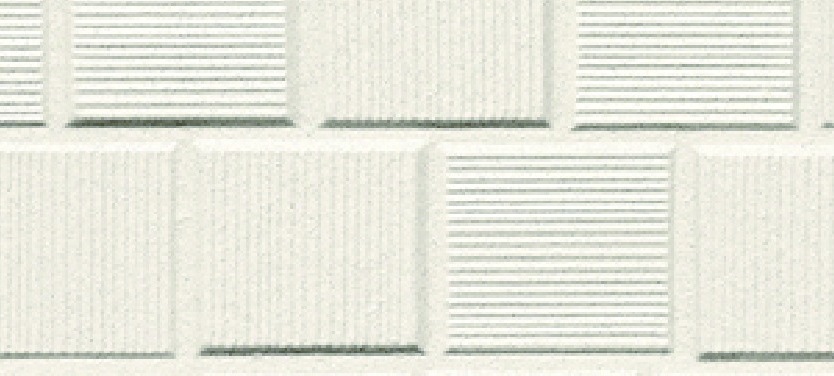
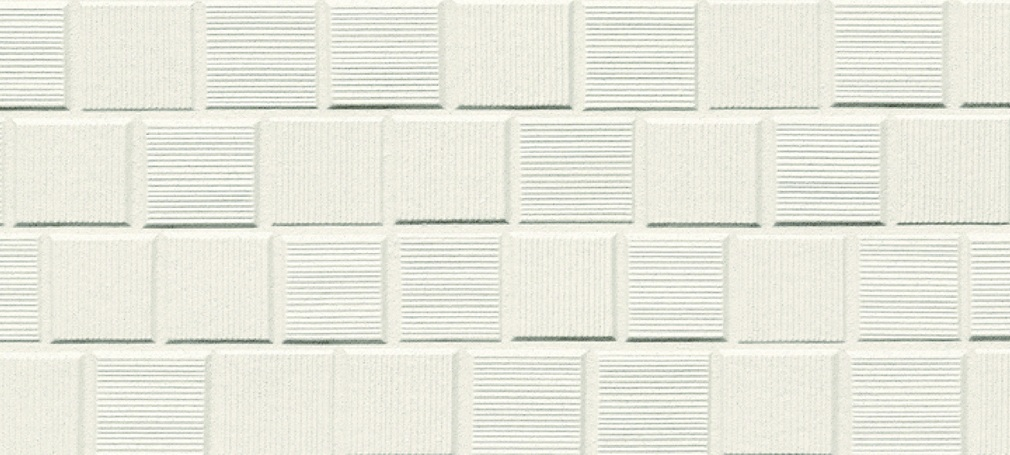
Correct mosaic texture crop and physical scale

Changed region(s): [[0.0, 0.0, 1.0, 1.0], [0.3741, 0.3803, 0.4053, 0.4096], [0.0, 0.3803, 0.0312, 0.4096]]

diff --git a/index.html b/index.html
@@ -94,11 +94,11 @@ function makeMaterial(product){
   if(materialCache.has(product.id))return materialCache.get(product.id);
   const texture=textureLoader.load(product.url,undefined,undefined,error=>console.error('花色图片加载失败:',product.url,error));
   texture.colorSpace=THREE.SRGBColorSpace;texture.wrapS=THREE.RepeatWrapping;texture.wrapT=THREE.RepeatWrapping;
-  // Material-only detail scale: double texture frequency so each visible
-  // pattern feature is half-size. Board geometry and joint spacing stay
-  // 3030 mm horizontally and 455 mm vertically.
-  const TEXTURE_DETAIL_SCALE=2;
-  texture.repeat.set(TEXTURE_DETAIL_SCALE/SOURCE_TILE_LENGTH_M,TEXTURE_DETAIL_SCALE/BOARD_COURSE_M);texture.anisotropy=Math.min(8,renderer.capabilities.getMaxAnisotropy());
+  // The mosaic sources are now cropped directly from the original product
+  // photos to show four block rows per 455 mm course. Keep their physical
+  // 1010 × 455 mm scale; other patterns retain the requested half-size detail.
+  const textureDetailScale=product.family==='马赛克'?1:2;
+  texture.repeat.set(textureDetailScale/SOURCE_TILE_LENGTH_M,textureDetailScale/BOARD_COURSE_M);texture.anisotropy=Math.min(8,renderer.capabilities.getMaxAnisotropy());
   const material=new THREE.MeshStandardMaterial({color:'#ffffff',map:texture,roughness:.8,metalness:.015});
   material.userData.productId=product.id;materialCache.set(product.id,material);return material;
 }

diff --git a/virtual-exterior-showroom.html b/virtual-exterior-showroom.html
@@ -94,11 +94,11 @@ function makeMaterial(product){
   if(materialCache.has(product.id))return materialCache.get(product.id);
   const texture=textureLoader.load(product.url,undefined,undefined,error=>console.error('花色图片加载失败:',product.url,error));
   texture.colorSpace=THREE.SRGBColorSpace;texture.wrapS=THREE.RepeatWrapping;texture.wrapT=THREE.RepeatWrapping;
-  // Material-only detail scale: double texture frequency so each visible
-  // pattern feature is half-size. Board geometry and joint spacing stay
-  // 3030 mm horizontally and 455 mm vertically.
-  const TEXTURE_DETAIL_SCALE=2;
-  texture.repeat.set(TEXTURE_DETAIL_SCALE/SOURCE_TILE_LENGTH_M,TEXTURE_DETAIL_SCALE/BOARD_COURSE_M);texture.anisotropy=Math.min(8,renderer.capabilities.getMaxAnisotropy());
+  // The mosaic sources are now cropped directly from the original product
+  // photos to show four block rows per 455 mm course. Keep their physical
+  // 1010 × 455 mm scale; other patterns retain the requested half-size detail.
+  const textureDetailScale=product.family==='马赛克'?1:2;
+  texture.repeat.set(textureDetailScale/SOURCE_TILE_LENGTH_M,textureDetailScale/BOARD_COURSE_M);texture.anisotropy=Math.min(8,renderer.capabilities.getMaxAnisotropy());
   const material=new THREE.MeshStandardMaterial({color:'#ffffff',map:texture,roughness:.8,metalness:.015});
   material.userData.productId=product.id;materialCache.set(product.id,material);return material;
 }
